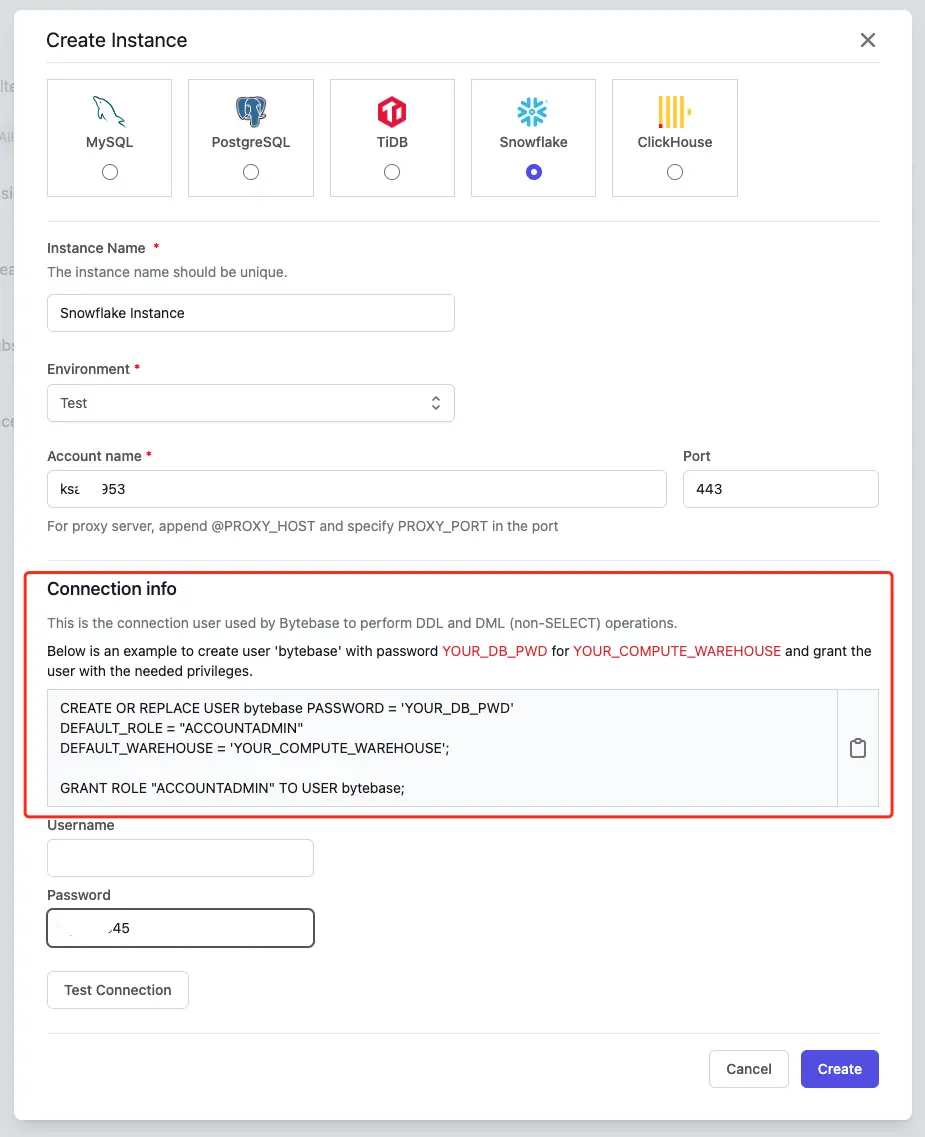
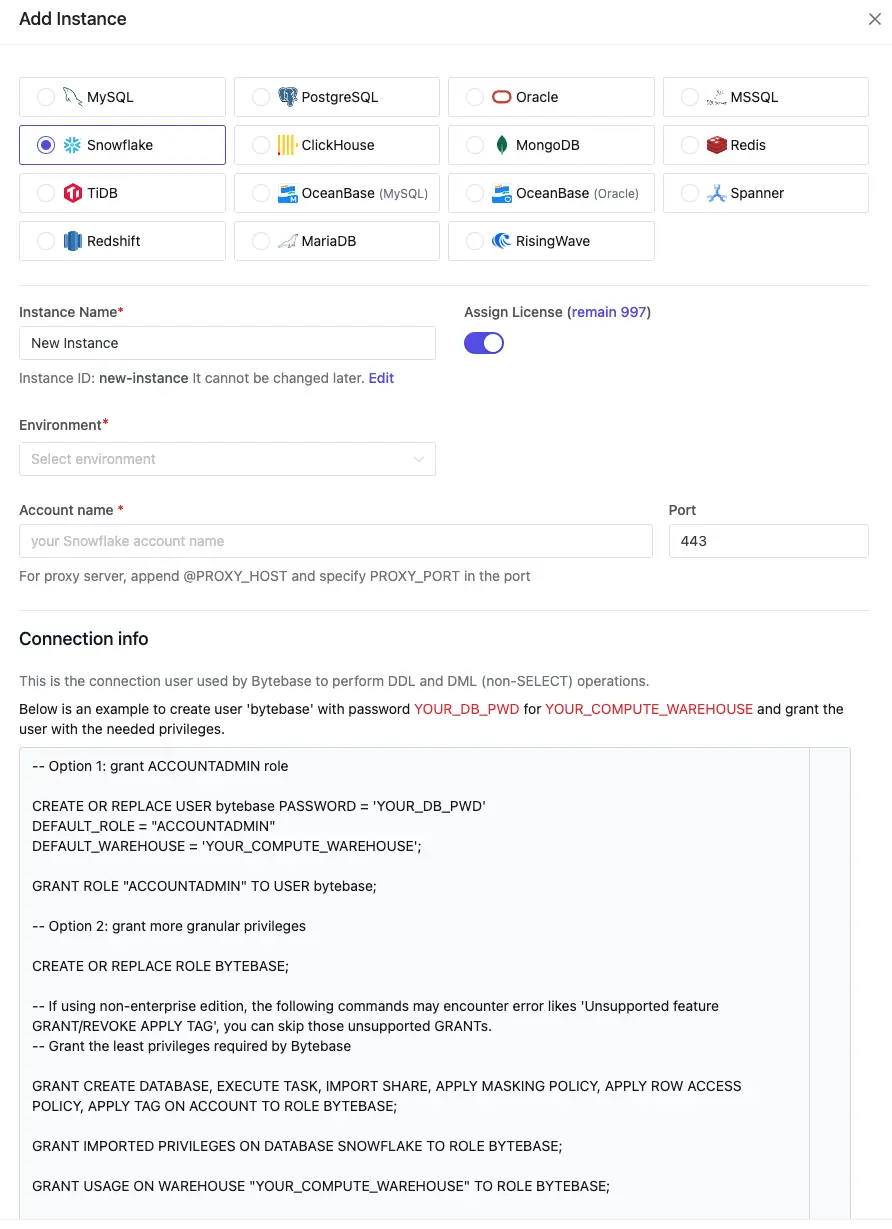
chore: update Snowflake tutorial

diff --git a/content/docs/tutorials/database-change-management-with-snowflake.md b/content/docs/tutorials/database-change-management-with-snowflake.md
@@ -54,17 +54,26 @@ In Bytebase, an **Instance** could be your on-premises MySQL instance, an 
 
 3. Add a Snowflake instance. You need to pay attention to some fields:
    ![bb-create-instance](/content/docs/tutorials/database-change-management-with-snowflake/bb-create-instance.webp)
+
    **Environment**: choose `Test`, if you choose `Prod`, you will need approval for all future change requests. In this tutorial, let's try to keep it simple. (However, it’s all configurable later.)
 
-**Account name**: Go to your Snowflake account, you can find it in the URL, or from the locator field (but lower case).
-![sf-locator](/content/docs/tutorials/database-change-management-with-snowflake/sf-locator.webp)
+   ![sf-account-name](/content/docs/tutorials/database-change-management-with-snowflake/sf-account-name.webp)
 
-**Username and password**: The ones you use to log into your Snowflake account.
-![sf-login](/content/docs/tutorials/database-change-management-with-snowflake/sf-login.webp)
+   **Account name**: Go to your Snowflake account, you can find it in the URL, or from the **locator field (but lower case)**.
+   ! [sf-locator](/content/docs/tutorials/database-change-management-with-snowflake/sf-locator.webp)
 
-Regarding the **Connection info**, make sure your account has `DEFAULT_ROLE=ACCOUNTADMIN` and `DEFAULT_WAREHOUSE` set in Snowflake, as shown below.
-![sf-role-list](/content/docs/tutorials/database-change-management-with-snowflake/sf-role-list.webp)
-![sf-edit-user](/content/docs/tutorials/database-change-management-with-snowflake/sf-edit-user.webp)
+   **Username and password**: The ones you use to log into your Snowflake account.
+   ![sf-login](/content/docs/tutorials/database-change-management-with-snowflake/sf-login.webp)
+
+   ![sf-connection-info](/content/docs/tutorials/database-change-management-with-snowflake/sf-connection-info.webp)
+
+   **Connection info**
+
+   Option 1: `ACCOUNTADMIN`. Make sure your account has `DEFAULT_ROLE=ACCOUNTADMIN` and `DEFAULT_WAREHOUSE` set in Snowflake, as shown below.
+   ![sf-role-list](/content/docs/tutorials/database-change-management-with-snowflake/sf-role-list.webp)
+   ![sf-edit-user](/content/docs/tutorials/database-change-management-with-snowflake/sf-edit-user.webp)
+
+   Option 2: Granular role. Assigned the proper permission according to the instructions.
 
 ## Step 3 - Create a Project with Snowflake instance
 

diff --git a/content/docs/get-started/instance.md b/content/docs/get-started/instance.md
@@ -121,6 +121,27 @@ GRANT cloudsqlsuperuser TO bytebase
 
 Besides, you may need to grant Bytebase privileges with `GRANT role_name TO bytebase;` for all existing roles. Otherwise, Bytebase may not access existing databases or tables.
 
+## Oracle
+
+For managing Oracle database, Bytebase provides two manage modes: **Manage based on database** and **Manage based on schema**.
+You can choose the manage mode when adding an instance or in the instance detail page.
+
+### Manage based on database
+
+In this mode, Bytebase will manage the database as a whole.
+
+- For normal Oracle instance, we treat the Oracle database as a Bytebase database.
+- For CDB instance, we treat the CDB and all PDBs as Bytebase databases.
+- For PDB instance, we treat the PDB as a Bytebase database.
+
+### Manage based on schema
+
+In this mode, Bytebase will manage the schema as a whole.
+
+- For any Oracle database, we treat the Oracle schema as a Bytebase database.
+
+## Snowflake
+
 ## Google Cloud Spanner
 
 For connecting to Google Cloud Spanner, you need to provide the following info:
@@ -153,22 +174,3 @@ For example, the project ID and instance ID are `spanner-test-3717002` and `span
 1. You'll get a message that the service account's private key JSON file was downloaded to your computer. Make a note of the file name and where your browser saves it. You'll need it later.
 
 Upload the JSON file to the `Credentials` input.
-
-## Oracle
-
-For managing Oracle database, Bytebase provides two manage modes: **Manage based on database** and **Manage based on schema**.
-You can choose the manage mode when adding an instance or in the instance detail page.
-
-### Manage based on database
-
-In this mode, Bytebase will manage the database as a whole.
-
-- For normal Oracle instance, we treat the Oracle database as a Bytebase database.
-- For CDB instance, we treat the CDB and all PDBs as Bytebase databases.
-- For PDB instance, we treat the PDB as a Bytebase database.
-
-### Manage based on schema
-
-In this mode, Bytebase will manage the schema as a whole.
-
-- For any Oracle database, we treat the Oracle schema as a Bytebase database.
